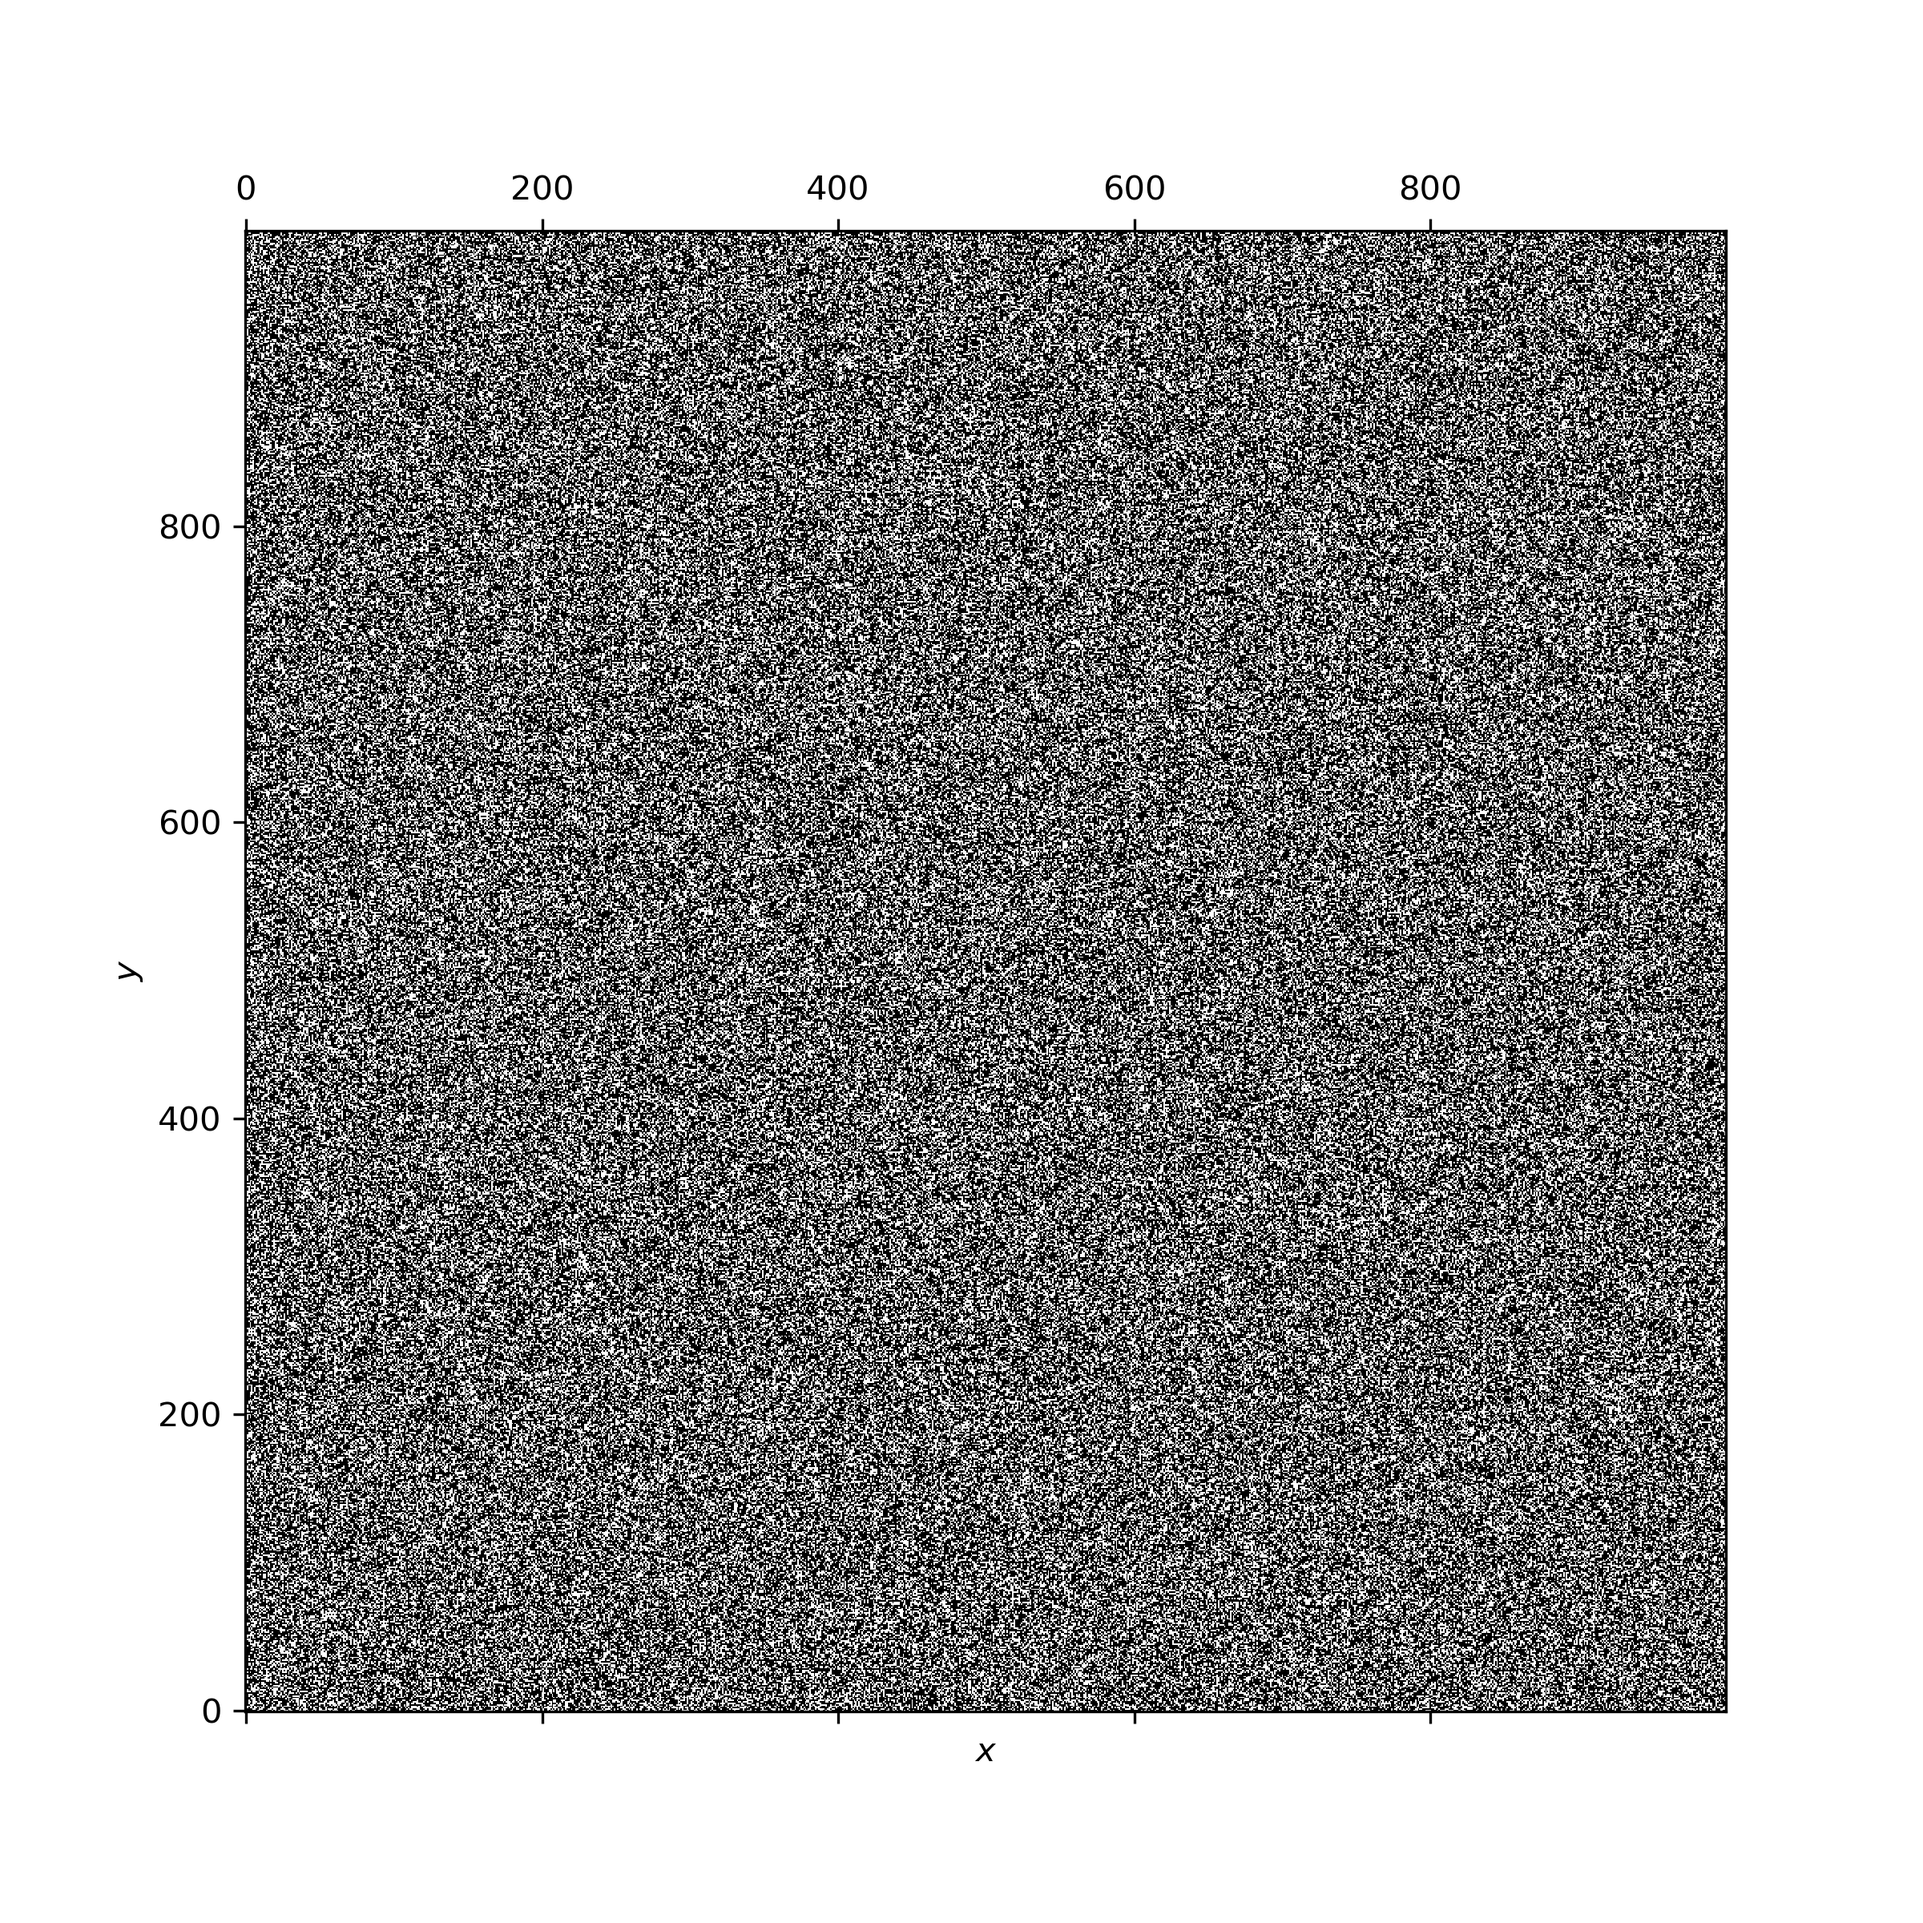
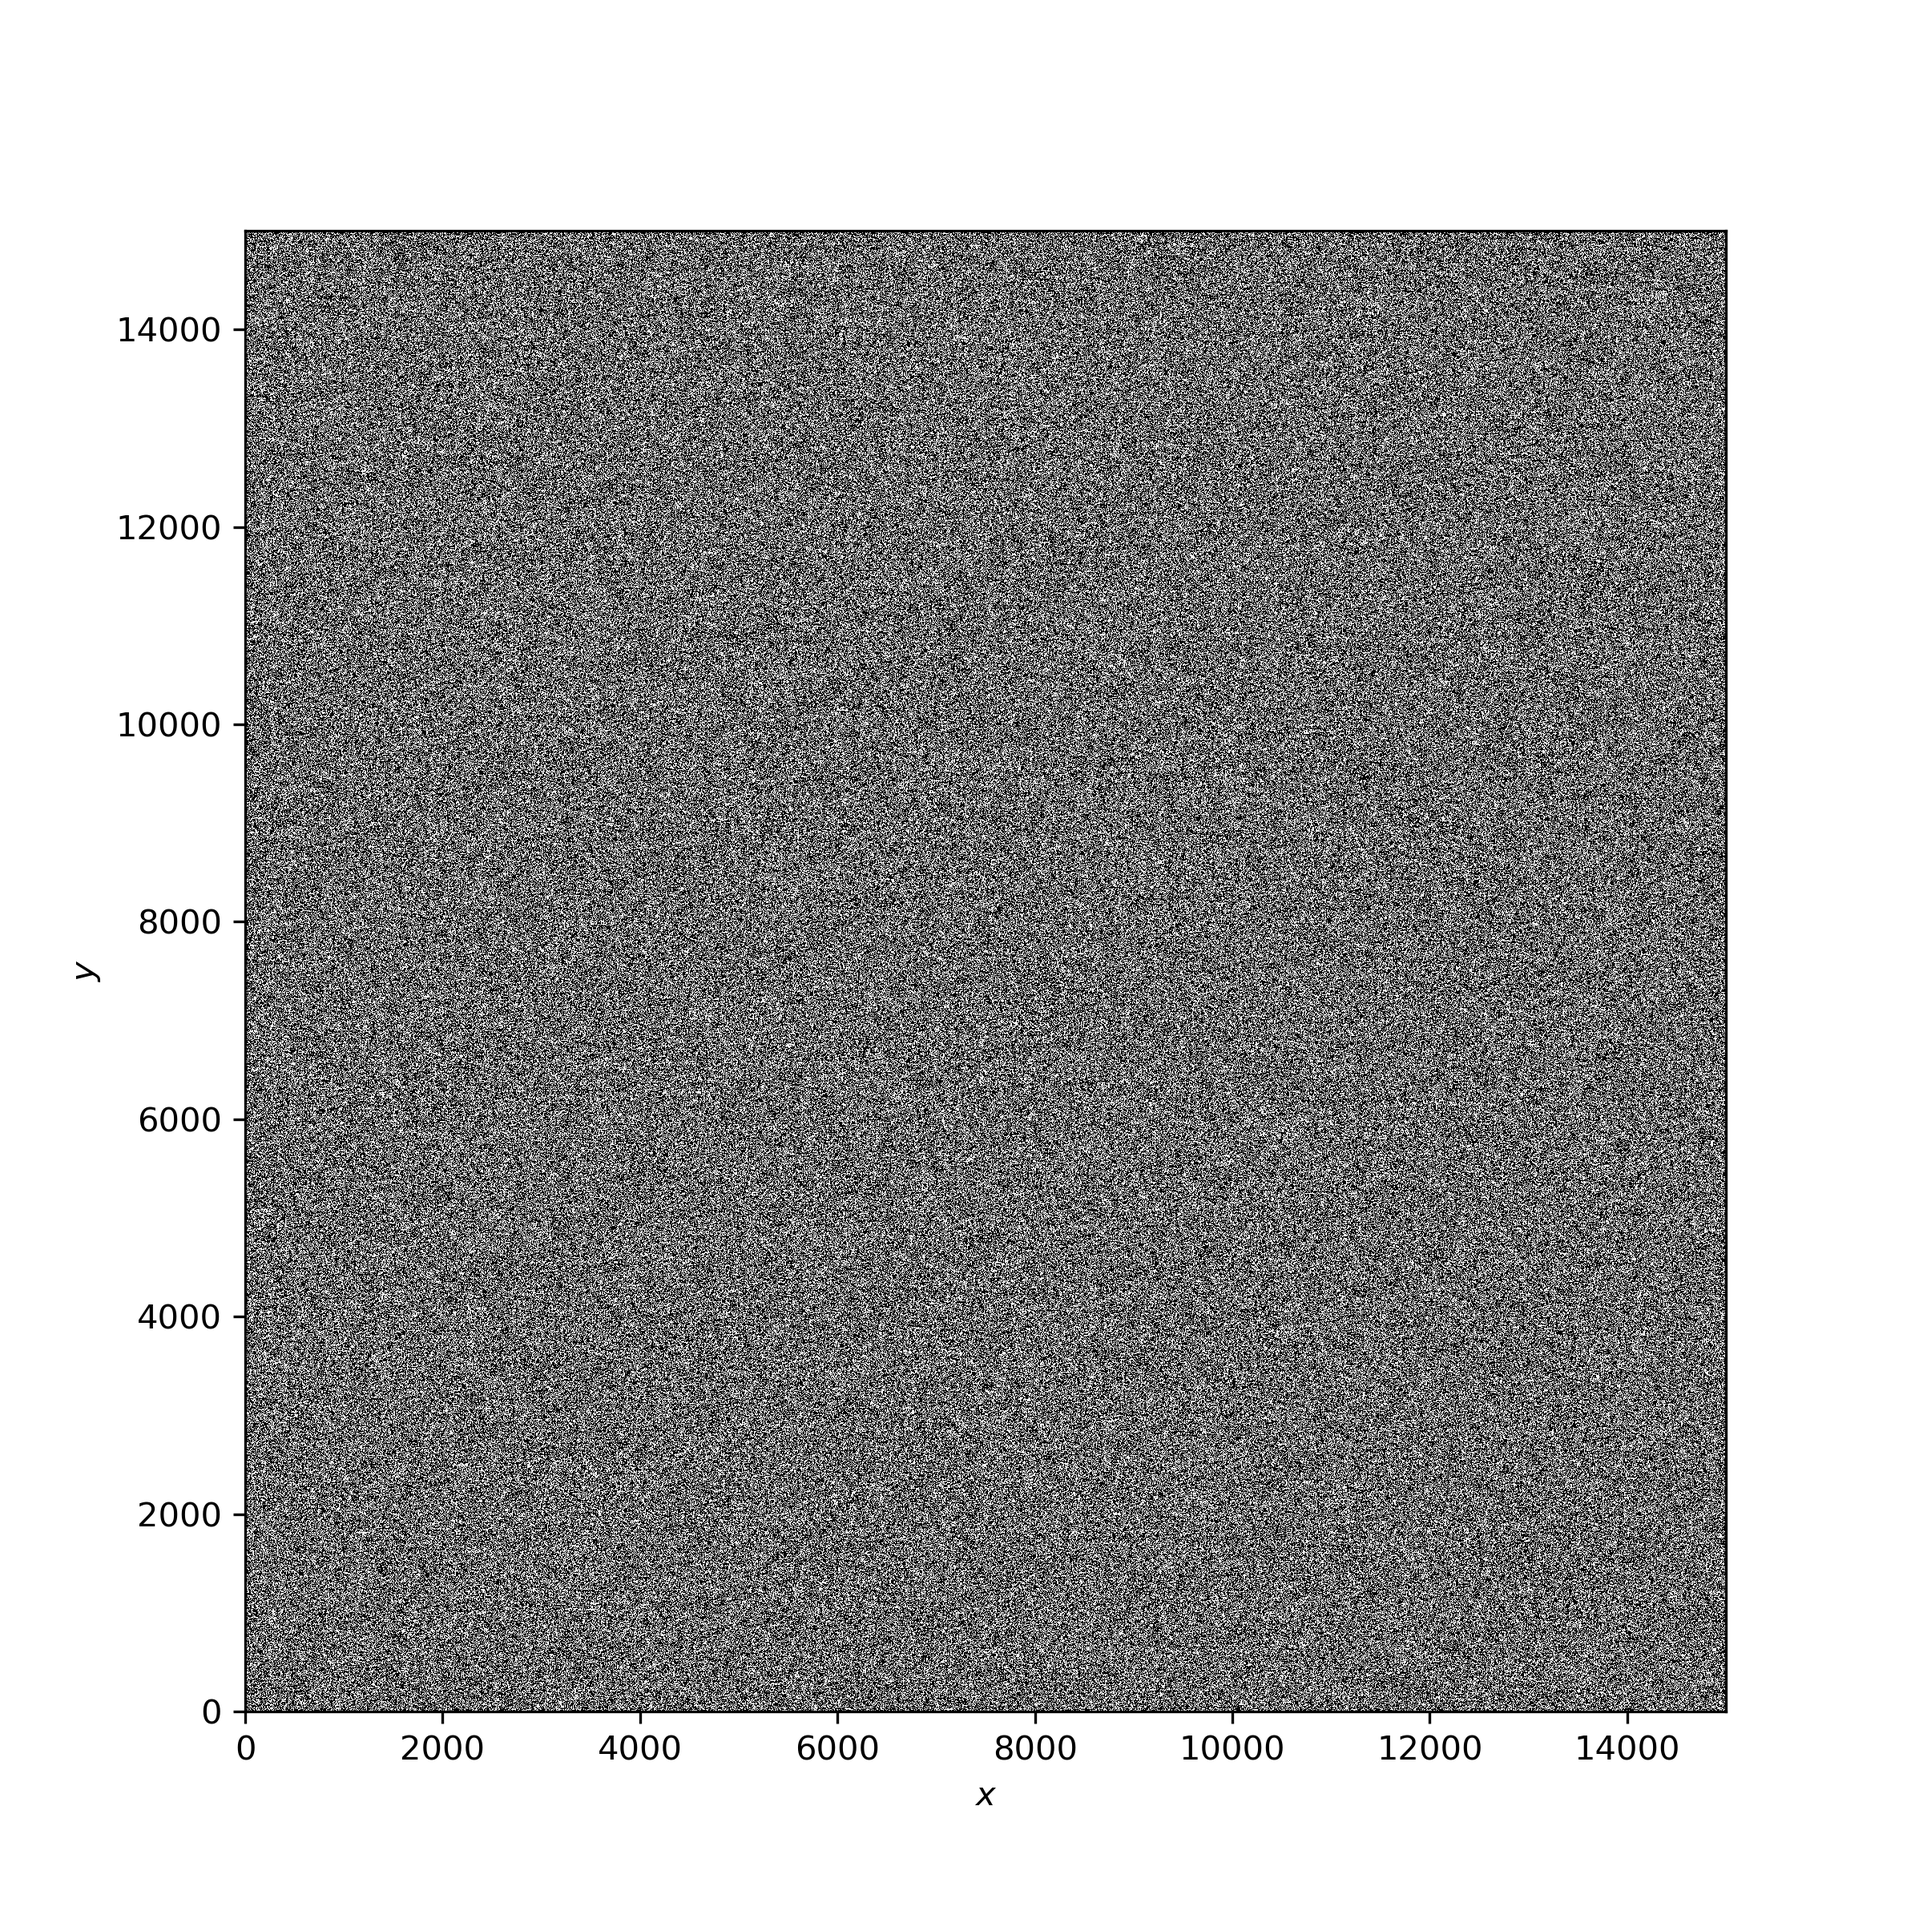
Include Zoom image and example images for L=15K

Changed region(s): [[0.0625, 0.0938, 0.9062, 0.9375], [0.0625, 0.25, 0.0938, 0.2812]]

diff --git a/pic/plotGrid.py b/pic/plotGrid.py
@@ -14,6 +14,7 @@ fig, ax = plt.subplots(figsize=(8,8))
 ax.matshow(Data.astype(bool), cmap='Greys',  interpolation='nearest', origin='lower')
 ax.set_xlabel("$x$")
 ax.set_ylabel("$y$")
+ax.xaxis.set_ticks_position('bottom')
 plt.savefig("Grid.png", transparent=True, dpi=300)
 plt.show()
 
@@ -28,5 +29,22 @@ fig, ax = plt.subplots(figsize=(8,8))
 ax.matshow(Data, cmap=new_map,  interpolation='nearest', origin='lower')
 ax.set_xlabel("$x$")
 ax.set_ylabel("$y$")
+ax.xaxis.set_ticks_position('bottom')
 plt.savefig("Cluster.png", transparent=True, dpi=300)
+plt.show()
+
+
+''' ---------- Zoom Plot ---------- '''
+extent = (0, L, 0, L)
+fig, ax = plt.subplots(figsize=(8,8))
+ax.matshow(Data, cmap=new_map,  interpolation='nearest', origin='lower', extent=extent)
+axins = ax.inset_axes(
+    [0.5, 0.5, 0.47, 0.47],
+    xlim=(L/3, 2*L/5), ylim=(L/3, 2*L/5), xticklabels=[], yticklabels=[])
+axins.matshow(Data, cmap=new_map,  interpolation='nearest', origin='lower', extent=extent)
+ax.indicate_inset_zoom(axins, edgecolor="black", alpha=1)
+ax.set_xlabel("$x$")
+ax.set_ylabel("$y$")
+ax.xaxis.set_ticks_position('bottom')
+plt.savefig("ZoomCluster.png", transparent=True, dpi=300)
 plt.show()
